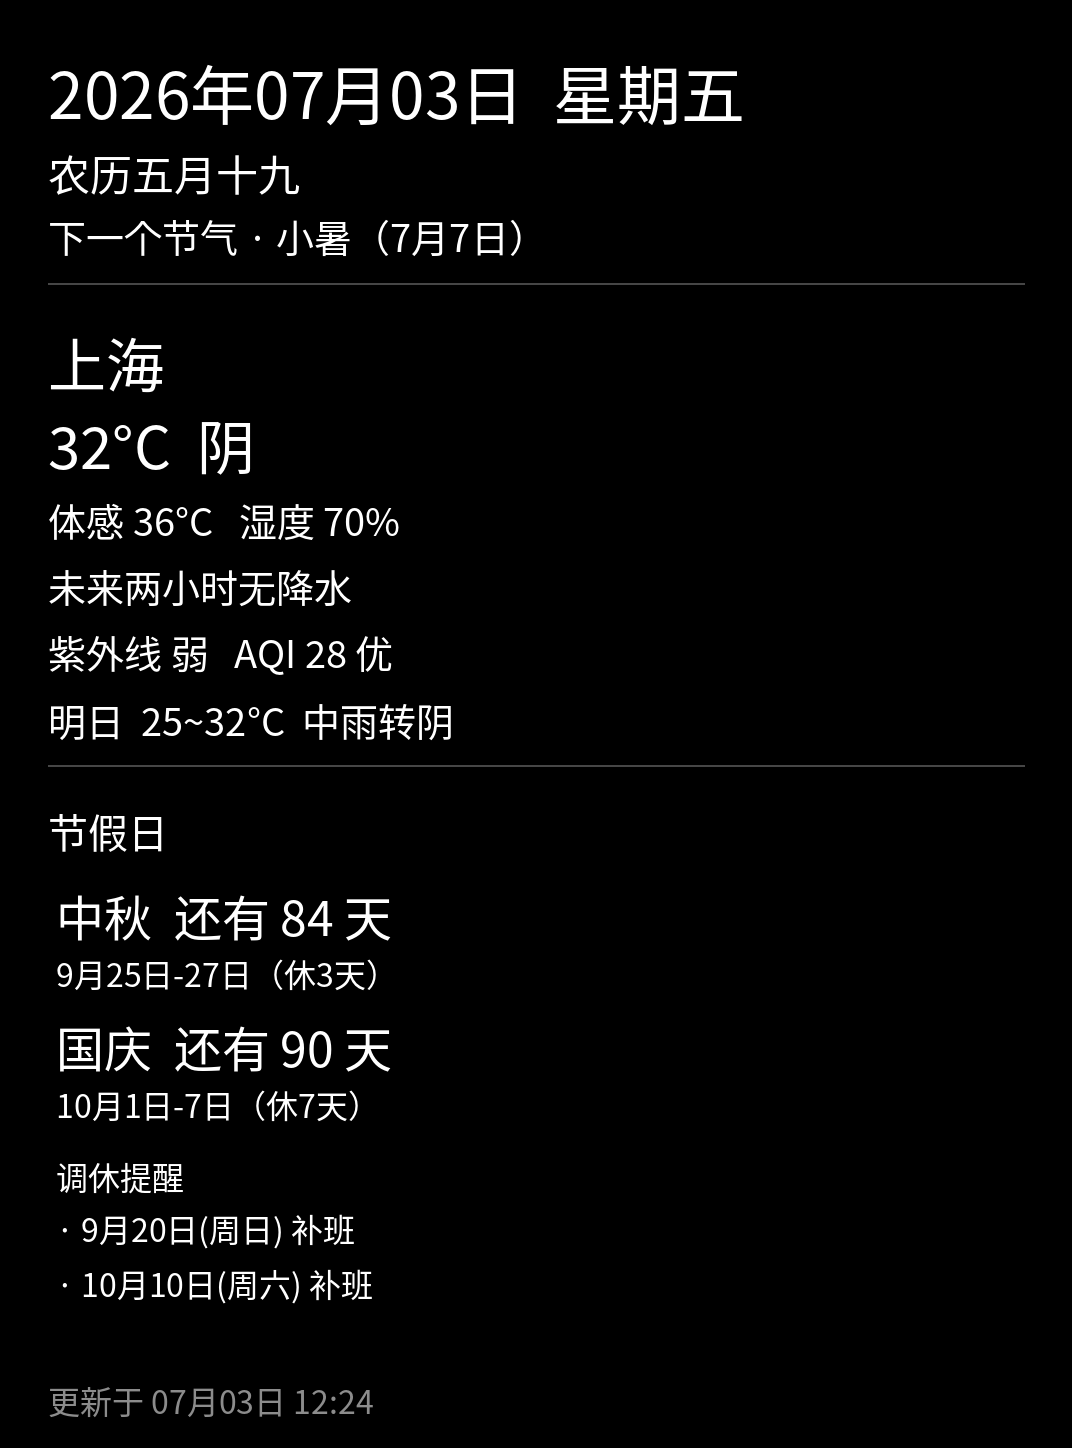
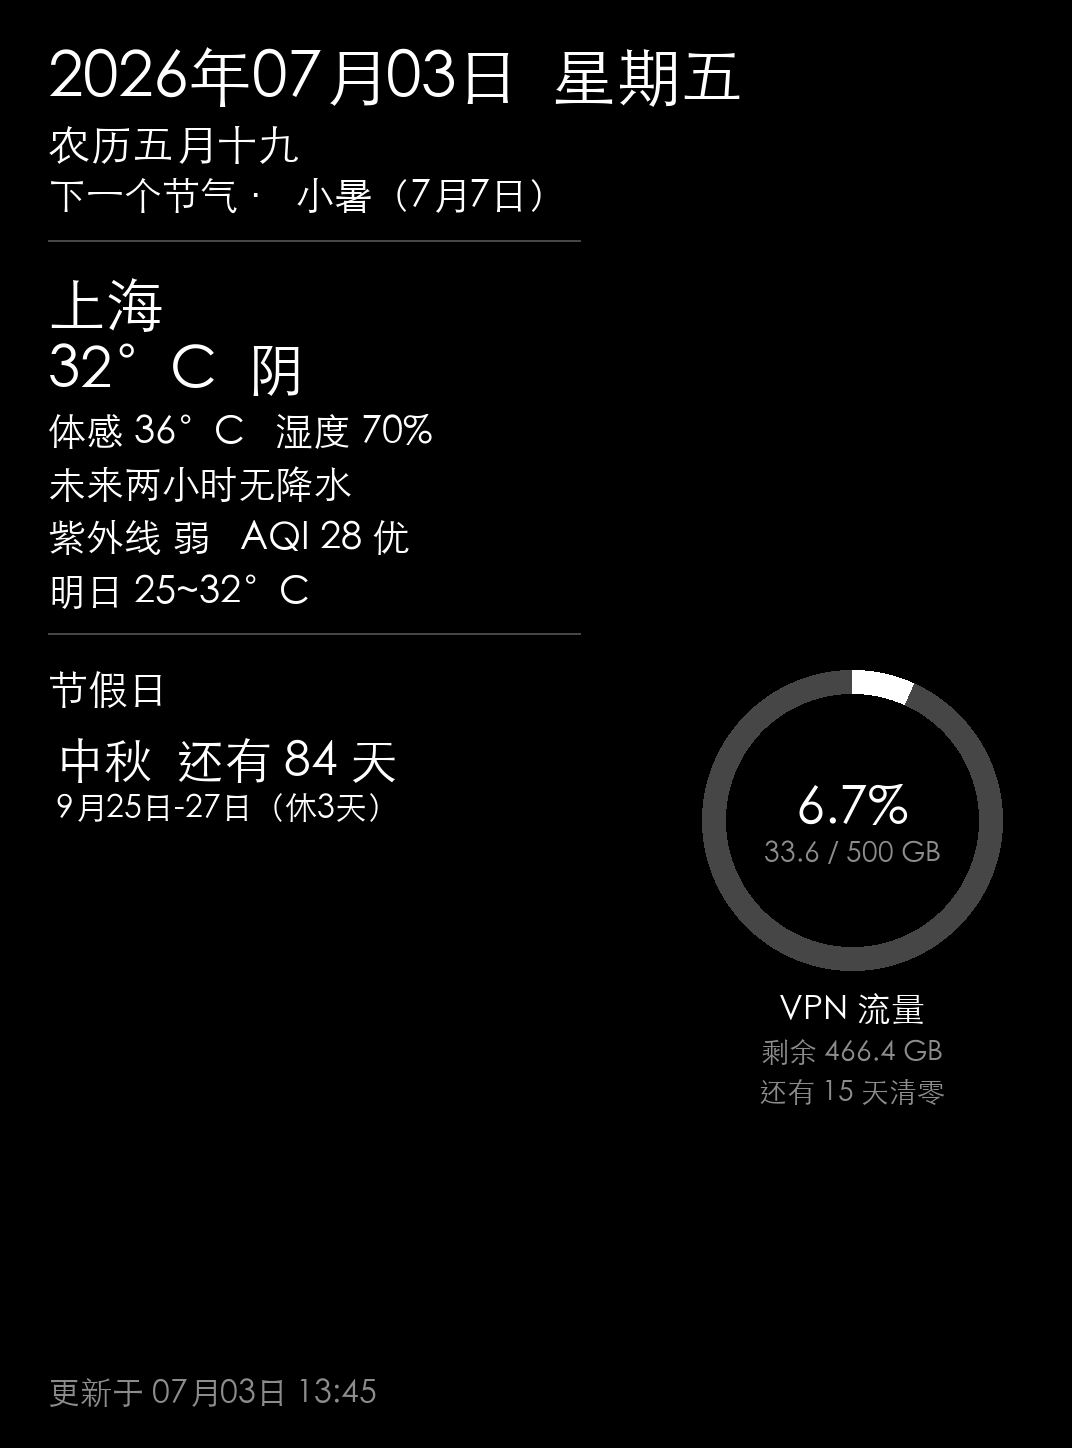
usage

diff --git a/render_dashboard.py b/render_dashboard.py
@@ -5,7 +5,7 @@ from pathlib import Path
 from PIL import Image, ImageDraw, ImageFont
 
 import config
-from data_sources import DashboardData, HolidayItem
+from data_sources import DashboardData, HolidayItem, VpnUsage
 
 
 def theme_colors() -> dict[str, int]:
@@ -64,9 +64,16 @@ def draw_section_title(
 
 
 def draw_divider(
-    draw: ImageDraw.ImageDraw, y: int, width: int, margin: int, *, fill: int
+    draw: ImageDraw.ImageDraw,
+    y: int,
+    width: int,
+    margin: int,
+    *,
+    fill: int,
+    right_x: int | None = None,
 ) -> int:
-    draw.line((margin, y, width - margin, y), fill=fill, width=2)
+    end_x = right_x if right_x is not None else width - margin
+    draw.line((margin, y, end_x, y), fill=fill, width=2)
     return y + 36
 
 
@@ -92,6 +99,75 @@ def draw_holiday_item(
     return text_bottom(draw, x, y, detail, detail_font, fill=fill) + 20
 
 
+def draw_centered_text(
+    draw: ImageDraw.ImageDraw,
+    cx: int,
+    cy: int,
+    text: str,
+    font,
+    *,
+    fill: int,
+) -> None:
+    bbox = draw.textbbox((0, 0), text, font=font)
+    width = bbox[2] - bbox[0]
+    height = bbox[3] - bbox[1]
+    draw.text((cx - width // 2, cy - height // 2), text, fill=fill, font=font)
+
+
+def draw_vpn_donut(
+    draw: ImageDraw.ImageDraw,
+    usage: VpnUsage,
+    *,
+    cx: int,
+    cy: int,
+    radius: int,
+    thickness: int,
+    colors: dict[str, int],
+) -> None:
+    text_color = colors["text"]
+    muted_color = colors["muted"]
+    ring_bg = colors["divider"]
+    ring_used = colors["text"] if config.THEME == "dark" else 30
+
+    bbox = (cx - radius, cy - radius, cx + radius, cy + radius)
+    draw.ellipse(bbox, outline=ring_bg, width=thickness)
+
+    if usage.used_percent > 0:
+        sweep = max(usage.used_percent / 100 * 360, 2)
+        draw.arc(bbox, start=270, end=270 + sweep, fill=ring_used, width=thickness)
+
+    percent_font = find_font(52)
+    detail_font = find_font(28)
+
+    draw_centered_text(
+        draw, cx, cy - 18, f"{usage.used_percent:.1f}%", percent_font, fill=text_color
+    )
+    draw_centered_text(
+        draw,
+        cx,
+        cy + 30,
+        f"{usage.used_gb:.1f} / {usage.limit_gb:.0f} GB",
+        detail_font,
+        fill=muted_color,
+    )
+
+    label_y = cy + radius + 36
+    draw_centered_text(
+        draw,
+        cx,
+        label_y,
+        f"剩余 {usage.remaining_gb:.1f} GB",
+        detail_font,
+        fill=muted_color,
+    )
+
+    if usage.days_until_reset == 0:
+        reset_text = "今日清零"
+    else:
+        reset_text = f"还有 {usage.days_until_reset} 天清零"
+    draw_centered_text(draw, cx, label_y + 44, reset_text, detail_font, fill=muted_color)
+
+
 def render_dashboard(data: DashboardData, output_path: Path) -> Path:
     width, height = config.WIDTH, config.HEIGHT
     colors = theme_colors()
@@ -111,6 +187,7 @@ def render_dashboard(data: DashboardData, output_path: Path) -> Path:
     rain_alert_font = find_font(40)
 
     margin = 48
+    divider_right = 580 if data.vpn_usage is not None else None
     y = 44
 
     date_line = data.now.strftime("%Y年%m月%d日") + f"  {data.weekday}"
@@ -122,7 +199,9 @@ def render_dashboard(data: DashboardData, output_path: Path) -> Path:
     else:
         jieqi_line = f"下一个节气 · {data.next_jieqi_name}（{data.next_jieqi_date}）"
     y = text_bottom(draw, margin, y, jieqi_line, body_font, fill=text_color) + 16
-    y = draw_divider(draw, y + 10, width, margin, fill=divider_color)
+    y = draw_divider(
+        draw, y + 10, width, margin, fill=divider_color, right_x=divider_right
+    )
 
     y = text_bottom(draw, margin, y, config.CITY_NAME, weather_font, fill=text_color) + 8
     y = text_bottom(
@@ -149,7 +228,9 @@ def render_dashboard(data: DashboardData, output_path: Path) -> Path:
         fill=text_color,
     ) + 16
     y = text_bottom(draw, margin, y, data.tomorrow_weather, body_font, fill=text_color) + 16
-    y = draw_divider(draw, y + 8, width, margin, fill=divider_color)
+    y = draw_divider(
+        draw, y + 8, width, margin, fill=divider_color, right_x=divider_right
+    )
 
     y = draw_section_title(draw, margin, y, "节假日", section_font, fill=text_color)
     if data.holiday_items:
@@ -171,6 +252,17 @@ def render_dashboard(data: DashboardData, output_path: Path) -> Path:
         y = text_bottom(draw, margin + 8, y, "调休提醒", detail_font, fill=text_color) + 10
         for line in data.makeup_workdays:
             y = text_bottom(draw, margin + 8, y, f"· {line}", detail_font, fill=text_color) + 10
+
+    if data.vpn_usage is not None:
+        draw_vpn_donut(
+            draw,
+            data.vpn_usage,
+            cx=width - 220,
+            cy=820,
+            radius=150,
+            thickness=24,
+            colors=colors,
+        )
 
     updated = data.now.strftime("更新于 %m月%d日 %H:%M")
     draw.text((margin, height - 72), updated, fill=muted_color, font=detail_font)

diff --git a/data_sources.py b/data_sources.py
@@ -13,6 +13,18 @@ import config
 
 
 @dataclass
+class VpnUsage:
+    used_bytes: int
+    limit_bytes: int
+    reset_day: int
+    days_until_reset: int
+    used_gb: float
+    limit_gb: float
+    remaining_gb: float
+    used_percent: float
+
+
+@dataclass
 class HolidayItem:
     name: str
     days_until: int
@@ -41,6 +53,7 @@ class DashboardData:
     aqi: str
     aqi_category: str
     makeup_workdays: list[str]
+    vpn_usage: VpnUsage | None
 
 
 WEEKDAYS = ["星期一", "星期二", "星期三", "星期四", "星期五", "星期六", "星期日"]
@@ -331,6 +344,75 @@ def fetch_uv() -> str:
     return str(item.get("category", "--"))
 
 
+def format_decimal_gb(byte_count: int) -> float:
+    return byte_count / 1_000_000_000
+
+
+def days_until_reset(today: date, reset_day: int) -> int:
+    if not 1 <= reset_day <= 31:
+        return 0
+
+    try:
+        candidate = today.replace(day=reset_day)
+    except ValueError:
+        candidate = None
+
+    if candidate is not None and candidate >= today:
+        return (candidate - today).days
+
+    year = today.year
+    month = today.month + 1
+    if month > 12:
+        month = 1
+        year += 1
+
+    for _ in range(24):
+        try:
+            reset_date = date(year, month, reset_day)
+            return (reset_date - today).days
+        except ValueError:
+            month += 1
+            if month > 12:
+                month = 1
+                year += 1
+
+    return 0
+
+
+def fetch_vpn_usage(today: date) -> VpnUsage | None:
+    if not config.VPN_API_URL:
+        return None
+
+    try:
+        response = requests.get(config.VPN_API_URL, timeout=15)
+        response.raise_for_status()
+        data = response.json()
+        used_bytes = int(data["bw_counter_b"])
+        limit_bytes = int(data["monthly_bw_limit_b"])
+        reset_day = int(data["bw_reset_day_of_month"])
+    except (requests.RequestException, KeyError, TypeError, ValueError):
+        return None
+
+    if limit_bytes <= 0:
+        return None
+
+    used_gb = format_decimal_gb(used_bytes)
+    limit_gb = format_decimal_gb(limit_bytes)
+    remaining_gb = max(format_decimal_gb(limit_bytes - used_bytes), 0.0)
+    used_percent = min(used_bytes / limit_bytes * 100, 100.0)
+
+    return VpnUsage(
+        used_bytes=used_bytes,
+        limit_bytes=limit_bytes,
+        reset_day=reset_day,
+        days_until_reset=days_until_reset(today, reset_day),
+        used_gb=used_gb,
+        limit_gb=limit_gb,
+        remaining_gb=remaining_gb,
+        used_percent=used_percent,
+    )
+
+
 def fetch_aqi() -> tuple[str, str]:
     data = _get(f"/airquality/v1/current/{config.LATITUDE}/{config.LONGITUDE}")
     indexes = data.get("indexes", [])
@@ -362,6 +444,7 @@ def collect_dashboard_data() -> DashboardData:
     tomorrow_weather = fetch_tomorrow_weather(today)
     uv_level = fetch_uv()
     aqi, aqi_category = fetch_aqi()
+    vpn_usage = fetch_vpn_usage(today)
 
     return DashboardData(
         now=now,
@@ -382,4 +465,5 @@ def collect_dashboard_data() -> DashboardData:
         aqi=aqi,
         aqi_category=aqi_category,
         makeup_workdays=makeup_workdays,
+        vpn_usage=vpn_usage,
     )

diff --git a/config.py b/config.py
@@ -33,3 +33,6 @@ TIMEZONE = os.environ.get("TZ", "Asia/Shanghai")
 
 # Theme: dark (black bg, white text) or light
 THEME = os.environ.get("THEME", "dark").lower()
+
+# Just My Socks bandwidth counter API (optional; full URL with service & id)
+VPN_API_URL = os.environ.get("VPN_API_URL", "").strip()

diff --git a/README.md b/README.md
@@ -11,6 +11,7 @@
 - 空气质量 AQI
 - 紫外线指数
 - 国务院节假日与调休提醒
+- VPN 流量圆环图（Just My Socks，可选）
 
 ## 本地运行
 
@@ -56,6 +57,7 @@ git push -u origin main
 | `QWEATHER_KID` | JWT 凭据 ID |
 | `QWEATHER_PROJECT_ID` | 项目 ID（JWT 的 `sub`） |
 | `QWEATHER_PRIVATE_KEY` | Ed25519 私钥全文（PEM 格式，换行保留） |
+| `VPN_API_URL` | （可选）Just My Socks 流量 API 完整 URL，含 `service` 和 `id` 参数 |
 
 > **推荐用 KID + 私钥自动生成 JWT**，因为 JWT 有效期短，适合 GitHub Actions 定时任务。  
 > 也可临时设置 `QWEATHER_JWT`（手动生成的 token），但过期后需重新更新 Secret。